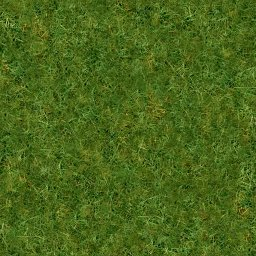
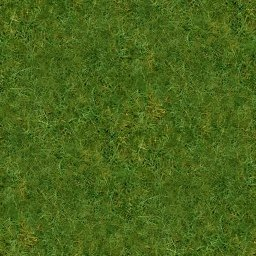
Consertadas texturas ao serem colocadas ao chao e melhorada andar em uma so direcao quando impossibilitado de andar em ambas

Changed region(s): [[0.0, 0.0, 1.0, 1.0], [0.6562, 0.2188, 0.6875, 0.25]]

diff --git a/src/map/map.cpp b/src/map/map.cpp
@@ -131,11 +131,9 @@ GLuint InserirTextura(Map* mapa, char* arq, char* nome,
 
    glTexEnvf(GL_TEXTURE_ENV, GL_TEXTURE_ENV_MODE, GL_MODULATE);
    glTexParameterf(GL_TEXTURE_2D,GL_TEXTURE_MIN_FILTER,
-                   GL_LINEAR_MIPMAP_LINEAR );
+                   GL_NEAREST_MIPMAP_LINEAR );
    glTexParameterf(GL_TEXTURE_2D, GL_TEXTURE_MAG_FILTER, GL_LINEAR );
-   glTexParameterf(GL_TEXTURE_2D, GL_TEXTURE_WRAP_S, GL_REPEAT );
-   glTexParameterf(GL_TEXTURE_2D, GL_TEXTURE_WRAP_T, GL_REPEAT );
-
+   
    gluBuild2DMipmaps(GL_TEXTURE_2D, GL_RGB, img->w,
                      img->h, GL_RGB, GL_UNSIGNED_BYTE, 
                      img->pixels );
@@ -150,7 +148,8 @@ GLuint InserirTextura(Map* mapa, char* arq, char* nome,
 /********************************************************************
  *                           Draw  Map                              *
  ********************************************************************/
-int Map::draw(GLfloat cameraX, GLfloat cameraY, GLfloat cameraZ, GLfloat matriz[6][4])
+int Map::draw(GLfloat cameraX, GLfloat cameraY, GLfloat cameraZ, 
+              GLfloat matriz[6][4])
 {
         int textura = -1;
         int i, Xaux = 0, Zaux = 0;
@@ -164,6 +163,10 @@ int Map::draw(GLfloat cameraX, GLfloat cameraY, GLfloat cameraZ, GLfloat matriz[
         glMaterialfv(GL_FRONT_AND_BACK, GL_DIFFUSE, mat_diffuse);
         glMaterialfv(GL_FRONT_AND_BACK, GL_SPECULAR, mat_specular);
         glMaterialf(GL_FRONT_AND_BACK, GL_SHININESS, 16.0784313725);
+
+        glTexParameterf(GL_TEXTURE_2D, GL_TEXTURE_WRAP_S, GL_CLAMP );
+        glTexParameterf(GL_TEXTURE_2D, GL_TEXTURE_WRAP_T, GL_CLAMP );
+
         
         glBegin(GL_QUADS);
         glNormal3i(0,1,0);
@@ -182,6 +185,9 @@ int Map::draw(GLfloat cameraX, GLfloat cameraY, GLfloat cameraZ, GLfloat matriz[
                 textura = MapSquares[Xaux][Zaux]->textura;
                 glEnable(GL_TEXTURE_2D);
                 glBindTexture(GL_TEXTURE_2D, textura);
+                glTexParameterf(GL_TEXTURE_2D, GL_TEXTURE_WRAP_S, GL_CLAMP );
+                glTexParameterf(GL_TEXTURE_2D, GL_TEXTURE_WRAP_T, GL_CLAMP );
+
                 glBegin(GL_QUADS);
              }
              if( (MapSquares[Xaux][Zaux]->visivel) || 
@@ -225,6 +231,9 @@ int Map::draw(GLfloat cameraX, GLfloat cameraY, GLfloat cameraZ, GLfloat matriz[
         glEnd();
 
         /* Faz o desenho dos muros e meios Fio*/
+        glTexParameterf(GL_TEXTURE_2D, GL_TEXTURE_WRAP_S, GL_REPEAT );
+        glTexParameterf(GL_TEXTURE_2D, GL_TEXTURE_WRAP_T, GL_REPEAT );
+
         muro* maux = muros;
         int fezMeioFio = 0;
         GLfloat altura = MUROALTURA;
@@ -249,6 +258,9 @@ int Map::draw(GLfloat cameraX, GLfloat cameraY, GLfloat cameraZ, GLfloat matriz[
               textura = maux->textura;
               glEnable(GL_TEXTURE_2D);
               glBindTexture(GL_TEXTURE_2D, textura);
+              glTexParameterf(GL_TEXTURE_2D, GL_TEXTURE_WRAP_S, GL_REPEAT );
+              glTexParameterf(GL_TEXTURE_2D, GL_TEXTURE_WRAP_T, GL_REPEAT );
+
               glBegin(GL_QUADS);
            }
            if(quadradoVisivel(maux->x1,0,maux->z1,maux->x2,

diff --git a/src/engine/dccnit.cpp b/src/engine/dccnit.cpp
@@ -1108,17 +1108,23 @@ int engine::TrataES(SDL_Surface *screen,int *forcaAtualizacao)
             redesenha = true;
             andou = true;
          }
-         else if( (varX != 0) && (podeAndar(varX,0,0)))
+         else if( ((varX > 0) && (podeAndar(passo,0,0))) ||
+                  ((varX < 0) && (podeAndar(-passo,0,0))) )       
          {
-            centroX += varX;
-            PCs->personagemAtivo->posicaoLadoX += varX;
+            if(varX < 0)
+               passo *= -1;
+            centroX += passo;
+            PCs->personagemAtivo->posicaoLadoX += passo;
             redesenha = true;
             andou = true;
          }
-         else if( (varZ != 0) && podeAndar(0,varZ,0)) 
+         else if( ((varZ > 0) && podeAndar(0,passo,0)) ||
+                  ((varZ < 0) && podeAndar(0,-passo,0)) )
          {
-            centroZ += varZ;
-            PCs->personagemAtivo->posicaoLadoZ += varZ;
+            if(varZ < 0) 
+               passo *= -1;
+            centroZ += passo;
+            PCs->personagemAtivo->posicaoLadoZ += passo;
             redesenha = true;
             andou = true;
          }
@@ -1142,17 +1148,24 @@ int engine::TrataES(SDL_Surface *screen,int *forcaAtualizacao)
              redesenha = true;
              andou  = true;
          }
-         else if((varX != 0) && (podeAndar(varX,0,0)))
+         else if( ((varX > 0) && (podeAndar(passo,0,0))) ||
+                  ((varX < 0) && (podeAndar(-passo,0,0))) ) 
+                   
          {
-              PCs->personagemAtivo->posicaoLadoX += varX;
-              centroX += varX;
+              if(varX < 0 )
+                 passo *= -1;
+              PCs->personagemAtivo->posicaoLadoX += passo;
+              centroX += passo;
               redesenha = true;
               andou = true;
          }
-         else if((varZ!=0) && (podeAndar(0,varZ,0)))
+         else if( ((varZ > 0) && (podeAndar(0,passo,0))) ||
+                  ((varZ < 0) && (podeAndar(0,-passo,0))) )
          {
-              PCs->personagemAtivo->posicaoLadoZ += varZ;
-              centroZ += varZ;
+              if( varZ < 0 )
+                 passo *= -1;
+              PCs->personagemAtivo->posicaoLadoZ += passo;
+              centroZ += passo;
               redesenha = true;
               andou = true;
          }
